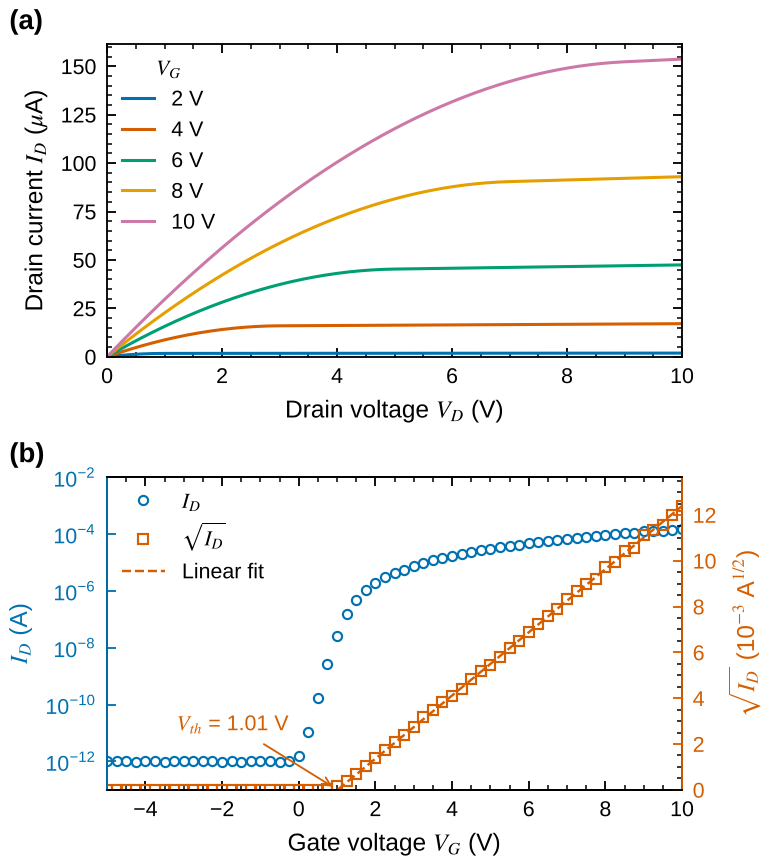
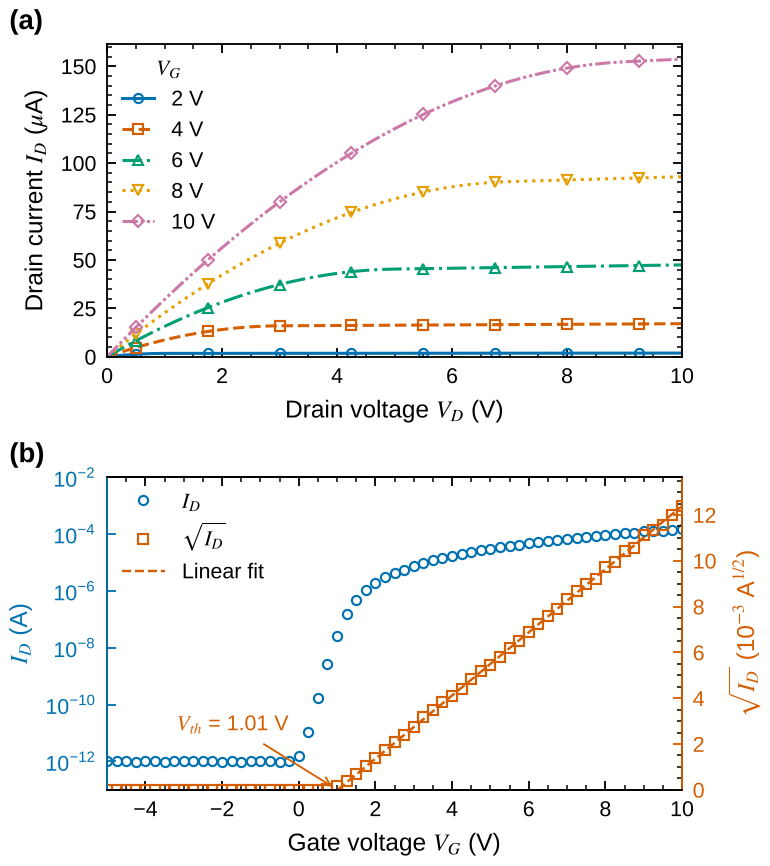
グラフ描画の記事の図を白黒印刷でも区別できるようにする
- 完成例 (a) の出力特性を、色に加えて線種と白抜きの記号(markevery で数点おき)で区別
- 図 1・図 2 の 2 本の線を実線と破線で区別
- 記事のコード例とポイントに、白黒でも区別する描き方を追記

Claude-Session: https://claude.ai/code/session_01AtdfLkK9EhbdPJph2GBeWT

diff --git a/content/tools/scientific-plotting/figure_example.py b/content/tools/scientific-plotting/figure_example.py
@@ -79,14 +79,19 @@ plt.rcParams.update({
 })
 # savefig.bbox="tight" は使わない(余白が削られて図の幅が 89 mm より小さくなる)
 OKABE_ITO = ["#0072B2", "#D55E00", "#009E73", "#E69F00", "#CC79A7"]
+# 白黒印刷でも区別できるように、色に加えて線種と記号も系列ごとに変える
+LINESTYLES = ["-", "--", "-.", ":", (0, (5, 1, 1, 1, 1, 1))]
+MARKERS = ["o", "s", "^", "v", "D"]
 C_LEFT, C_RIGHT = "#0072B2", "#D55E00"   # 主軸と副軸の色
 
 # ---------------- 描画 ----------------
 fig, (ax1, ax2) = plt.subplots(2, 1, figsize=(89 * MM, 100 * MM), layout="constrained")
 
-# (a) 出力特性:ゲート電圧ごとに色を変える
-for v, c in zip(vg_steps, OKABE_ITO, strict=True):
-    ax1.plot(vd, drain_current(v, vd) * 1e6, color=c, label=f"{v} V")
+# (a) 出力特性:ゲート電圧ごとに色・線種・記号を変える
+for v, c, ls, mk in zip(vg_steps, OKABE_ITO, LINESTYLES, MARKERS, strict=True):
+    ax1.plot(vd, drain_current(v, vd) * 1e6, color=c, linestyle=ls,
+             marker=mk, markevery=(10, 25), markerfacecolor="none",
+             markeredgewidth=0.7, label=f"{v} V")
 ax1.set_xlabel(r"Drain voltage $V_D$ (V)")
 ax1.set_ylabel(r"Drain current $I_D$ ($\mu$A)")
 ax1.set_xlim(0, 10)

diff --git a/content/tools/scientific-plotting/index.md b/content/tools/scientific-plotting/index.md
@@ -84,8 +84,8 @@ from plot_utils import new_figure    # 記事の plot_utils.py
 apply_style()             # 論文用の rcParams を一括で設定
 fig, ax = new_figure()    # 6.4 × 4.8 インチ、200 dpi、背景は白(軸の領域だけ透明)
 # vg: ゲート電圧の配列、drain_current(): I_D のモデル(figure_example.py と同じ)
-ax.semilogy(vg, drain_current(vg, 0.1), label="$V_D = 0.1$ V")
-ax.semilogy(vg, drain_current(vg, 10.0), label="$V_D = 10$ V")
+ax.semilogy(vg, drain_current(vg, 0.1), "-", label="$V_D = 0.1$ V")    # 実線
+ax.semilogy(vg, drain_current(vg, 10.0), "--", label="$V_D = 10$ V")   # 破線
 ax.set_xlabel("Gate voltage (V)")
 ax.set_ylabel("Drain current (A)")
 ax.legend()
@@ -250,15 +250,20 @@ plt.rcParams.update({
 # savefig.bbox="tight" は使わない(余白が削られて図の幅が 89 mm より小さくなる)。
 # 余白の調整は layout="constrained" に任せる
 OKABE_ITO = ["#0072B2", "#D55E00", "#009E73", "#E69F00", "#CC79A7"]
+# 白黒印刷でも区別できるように、色に加えて線種と記号も系列ごとに変える
+LINESTYLES = ["-", "--", "-.", ":", (0, (5, 1, 1, 1, 1, 1))]
+MARKERS = ["o", "s", "^", "v", "D"]
 C_LEFT, C_RIGHT = "#0072B2", "#D55E00"   # 主軸と副軸の色
 
 # 3) 仕上がりの大きさで図を作る(1 段幅 89 mm、上下 2 段)
 fig, (ax1, ax2) = plt.subplots(2, 1, figsize=(89 * MM, 100 * MM),
                                layout="constrained")
 
-# (a) 出力特性:ゲート電圧ごとに色を変える
-for v, c in zip(vg_steps, OKABE_ITO, strict=True):
-    ax1.plot(vd, drain_current(v, vd) * 1e6, color=c, label=f"{v} V")
+# (a) 出力特性:ゲート電圧ごとに色・線種・記号を変える
+for v, c, ls, mk in zip(vg_steps, OKABE_ITO, LINESTYLES, MARKERS, strict=True):
+    ax1.plot(vd, drain_current(v, vd) * 1e6, color=c, linestyle=ls,
+             marker=mk, markevery=(10, 25), markerfacecolor="none",
+             markeredgewidth=0.7, label=f"{v} V")
 ax1.set_xlabel(r"Drain voltage $V_D$ (V)")
 ax1.set_ylabel(r"Drain current $I_D$ ($\mu$A)")
 ax1.set_xlim(0, 10)
@@ -312,6 +317,7 @@ fig.savefig("figure1.png", dpi=600)
 ポイントは次の 5 つです。
 
 - **大きさは仕上がりで決める。** `figsize` をミリメートルから換算して指定し、文字サイズ・線の太さもその大きさでの値にします。あとから縮小しないので、文字が規定より小さくなりません。
+- **白黒で印刷しても区別できるようにする。** 色だけに頼らず、(a) は線種(実線・破線・一点鎖線・点線)と白抜きの記号(○・□・△・▽・◇)、(b) は記号の形(○ と □)と近似直線の破線で系列を区別しています。記号は `markevery` で数点おきに置くと、線が見にくくなりません。
 - **色覚の多様性に配慮した色を使う。** 配色には、色覚の多様性に配慮して選ばれた Okabe–Ito のパレット(岡部正隆・伊藤啓「カラーユニバーサルデザイン」)を使っています。
 - **副軸は「どちらの軸で読むか」を色で示す。** 系列の色と、その軸のラベル・目盛り・枠線の色をそろえます。さらに記号の形(○ と □)も変えておくと、白黒印刷でも区別できます。
 - **副軸と `apply_style()` の目盛りを両立させる。** `apply_style()` は四辺に目盛りを付けるため、そのまま `twinx()` を使うと右側で主軸と副軸の目盛りが重なります。主軸の右目盛りと副軸の左目盛りを消してから描きます。凡例は `combine_twinx_legend()` で 1 つにまとめます。
